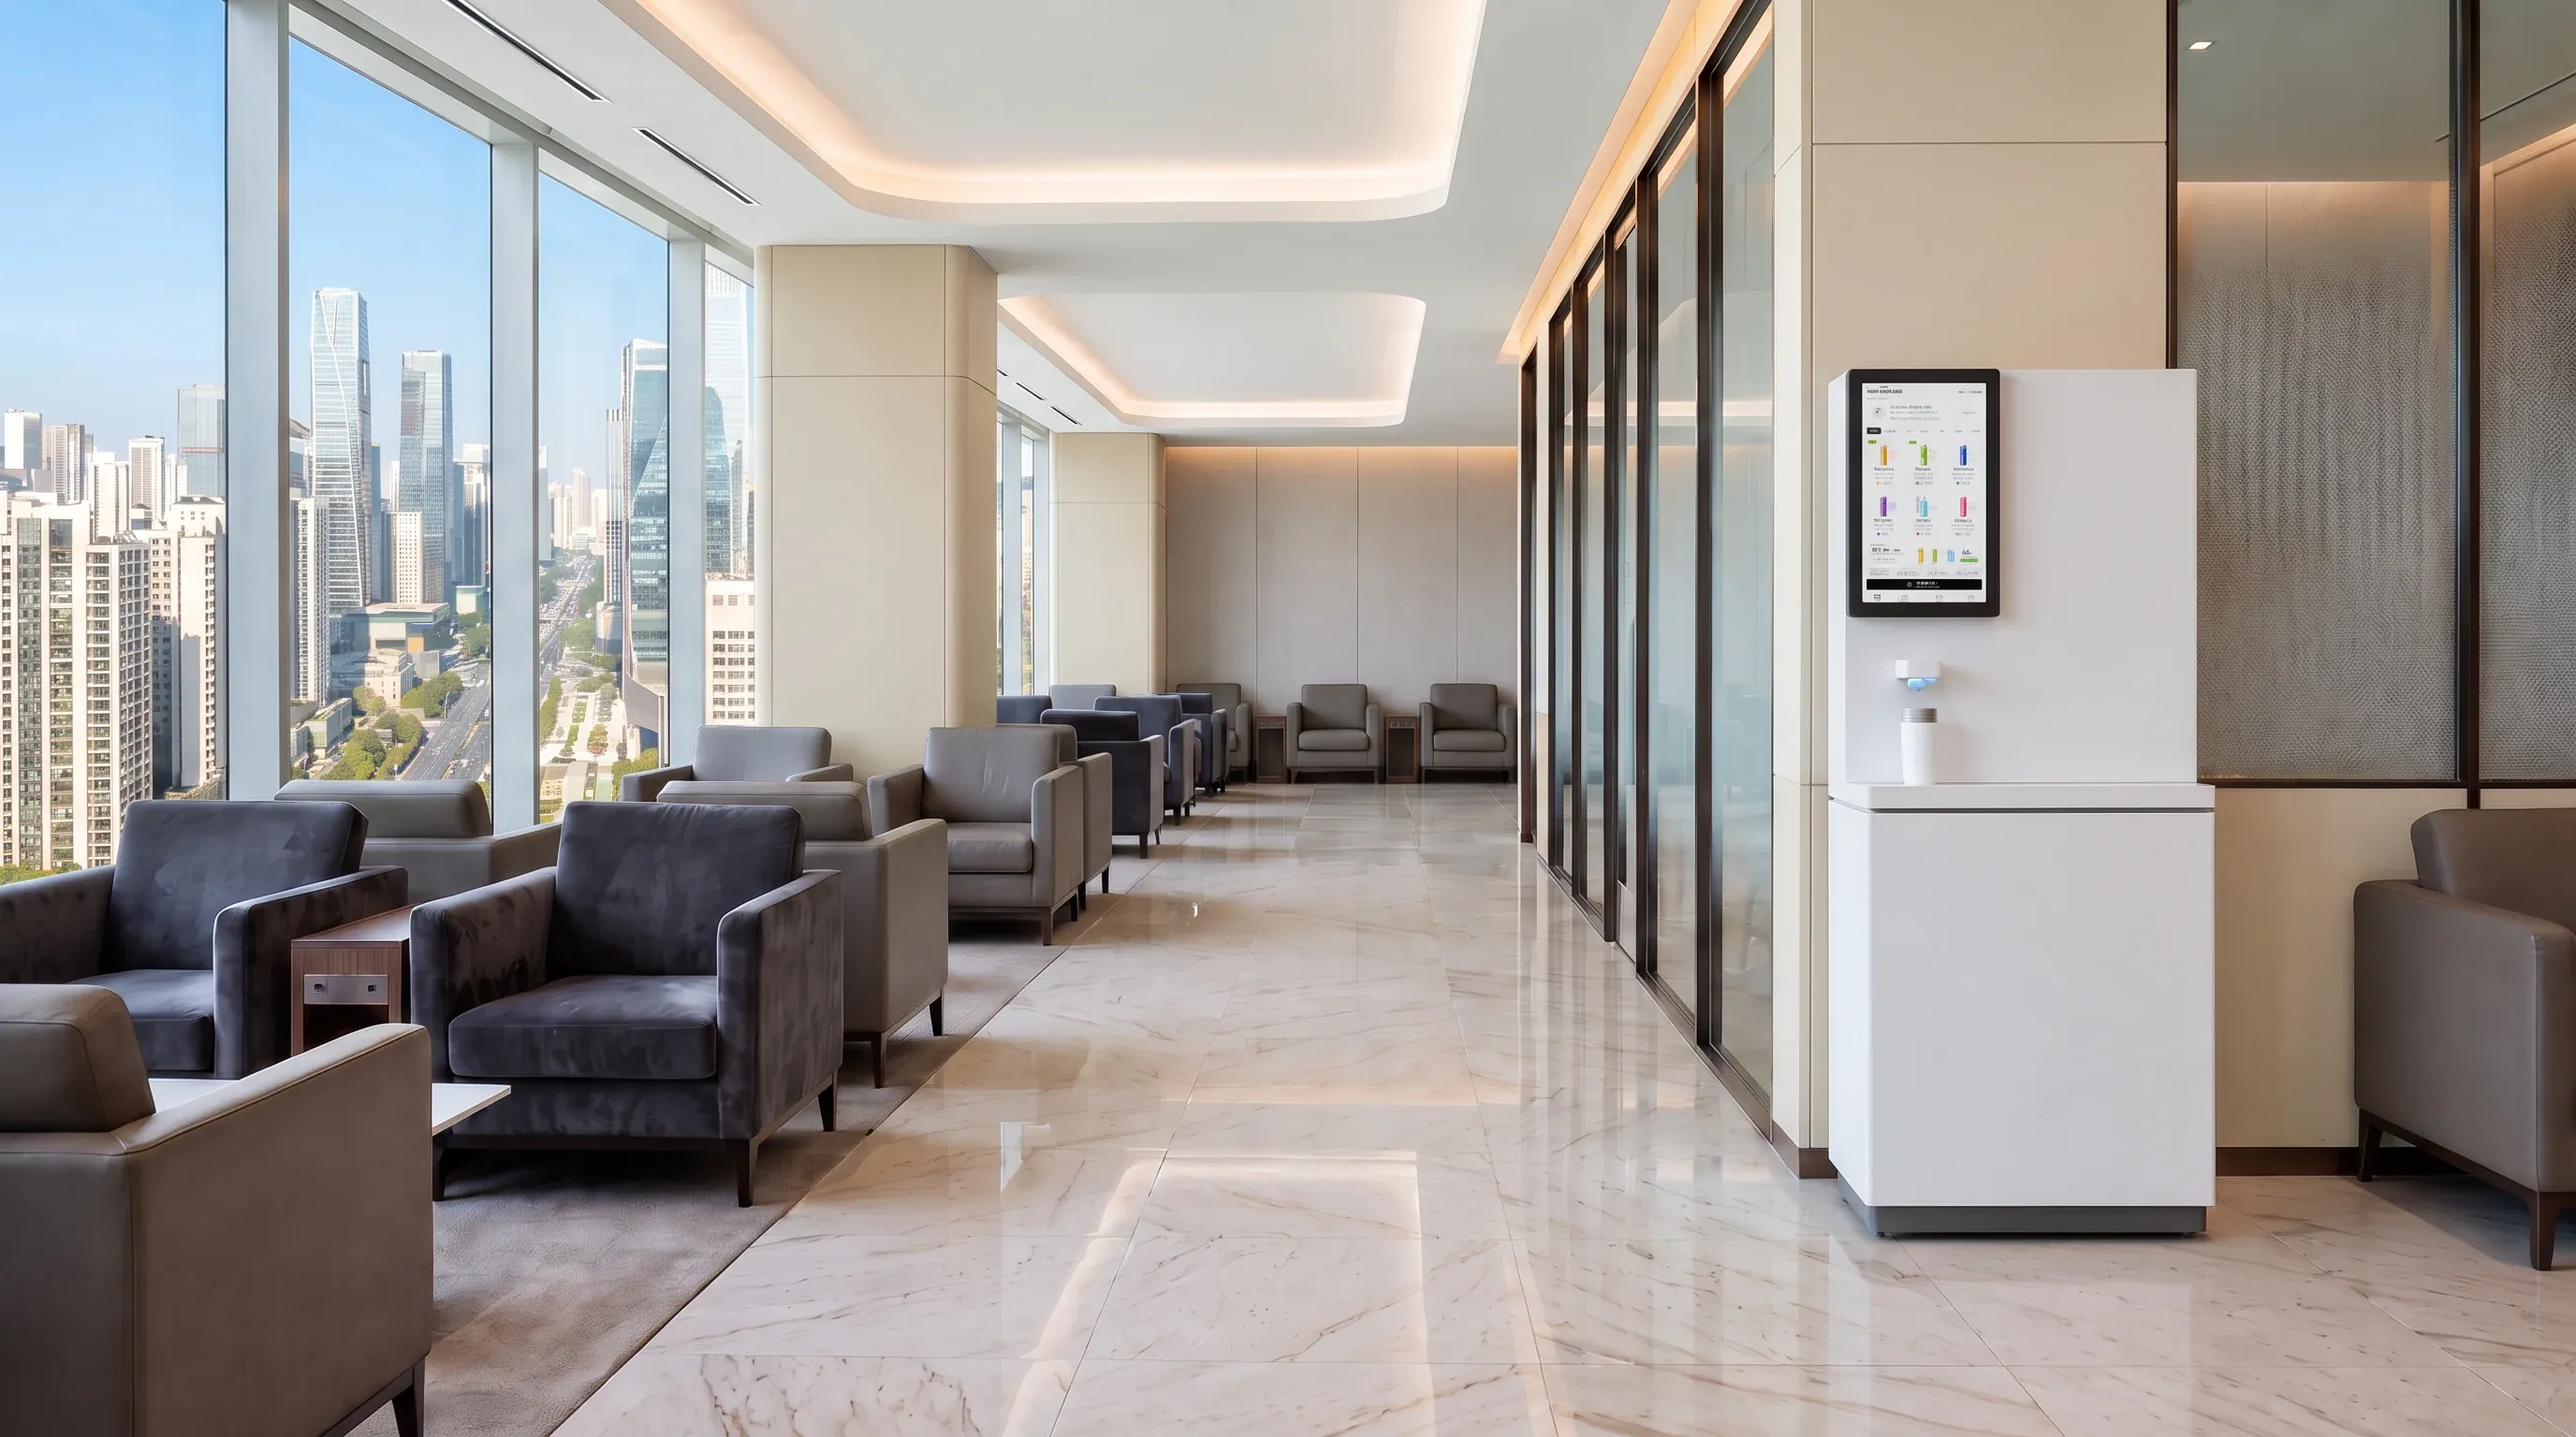
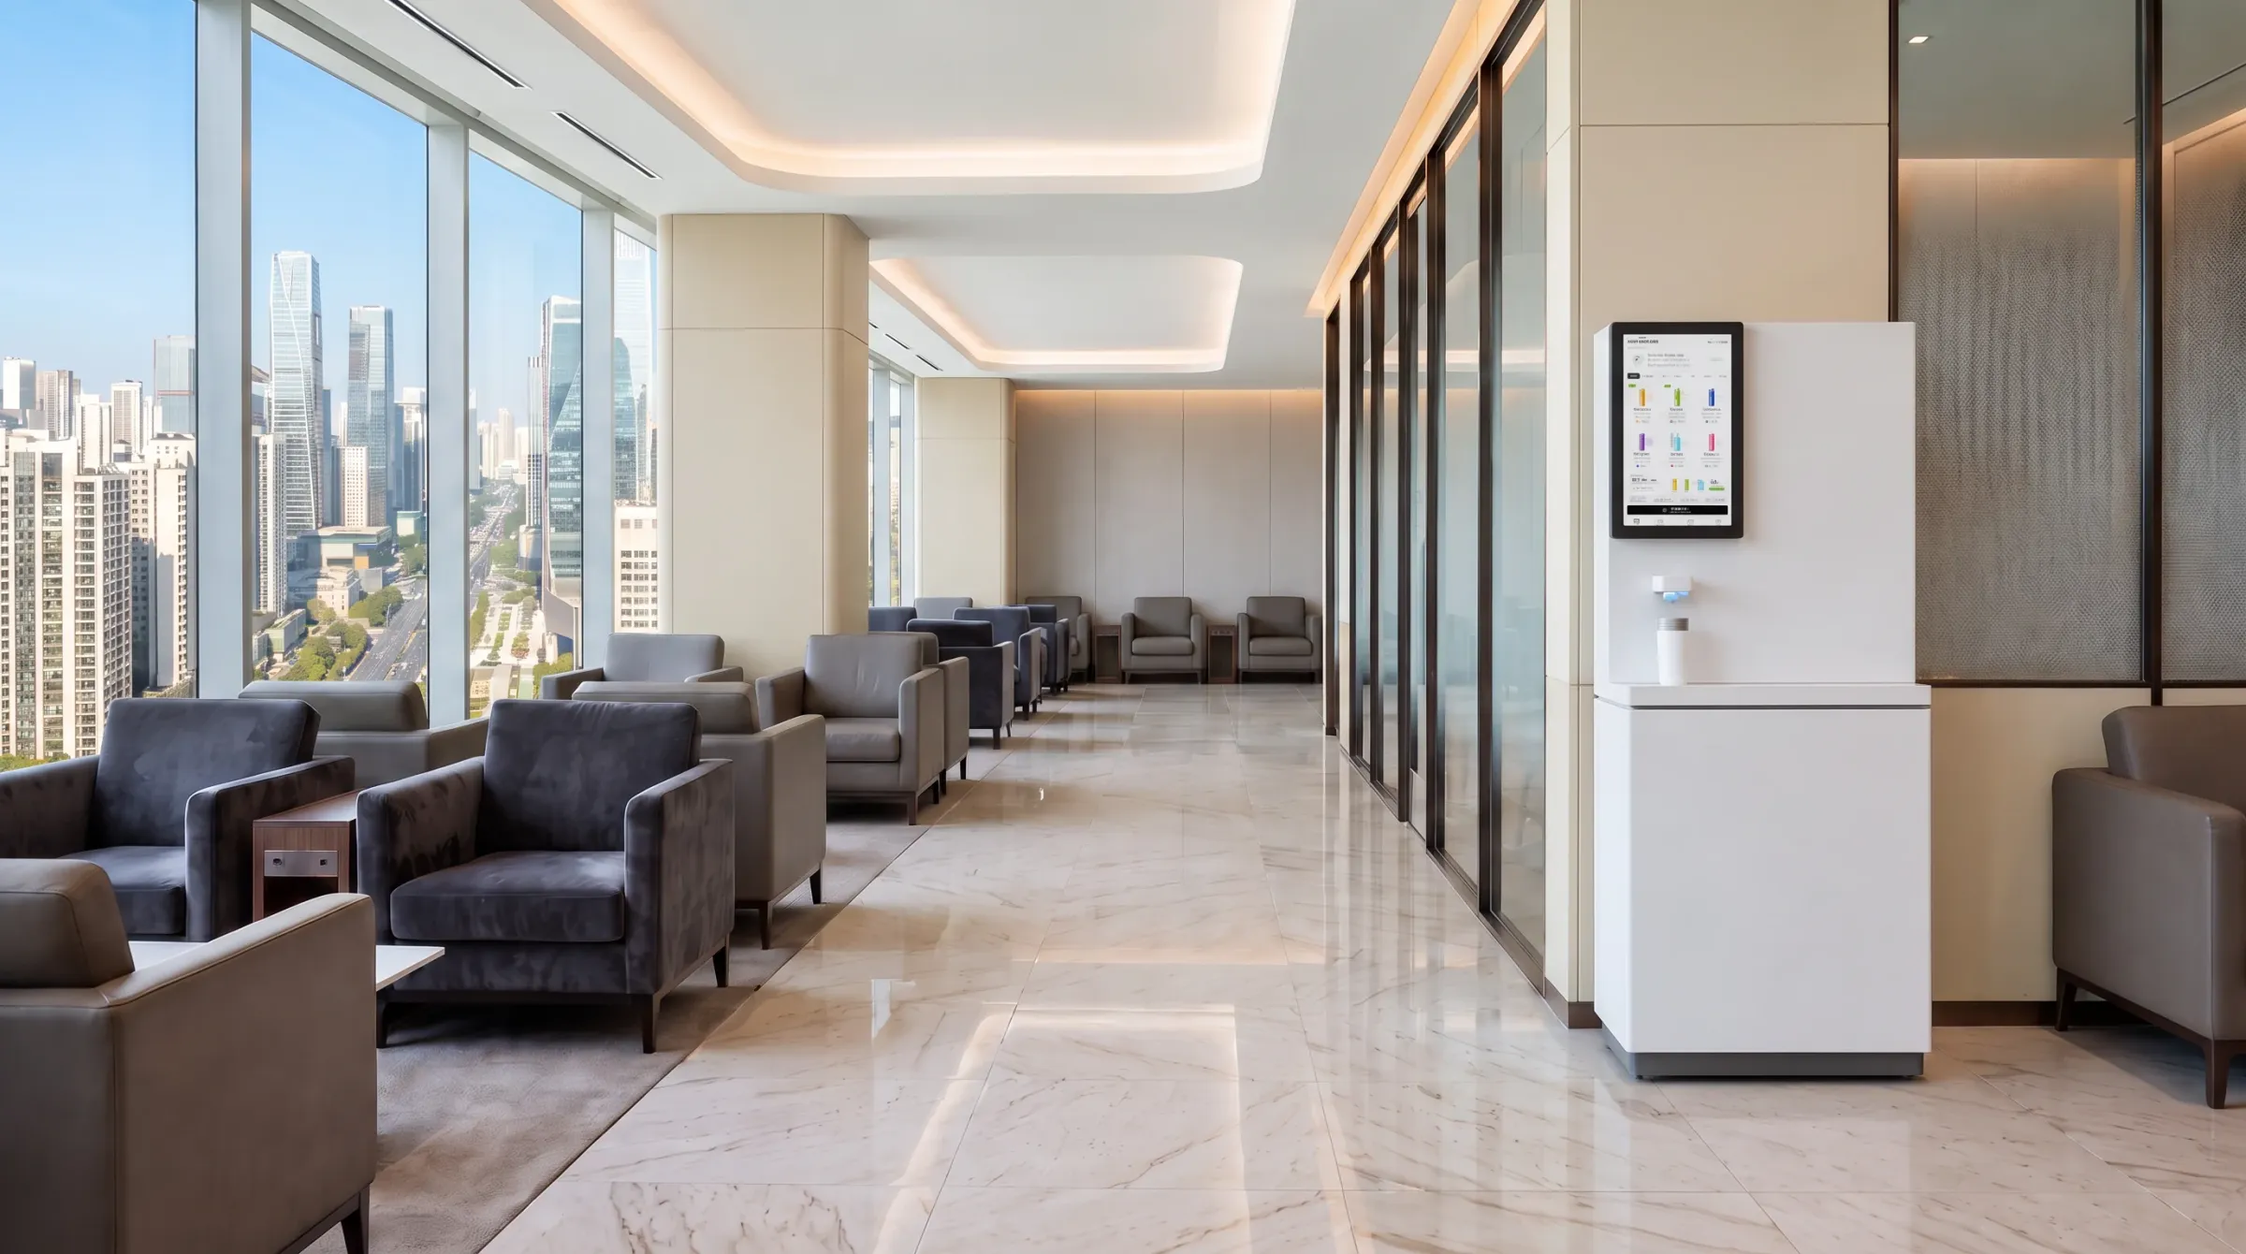
perf: 2400px space photos with async decode; final checks

diff --git a/src/content/spaces.ts b/src/content/spaces.ts
@@ -12,10 +12,10 @@ const space = (id: SpaceId, name: string, w: number, h: number, [x0, y0, x1, y1]
 })
 
 export const SPACES: Space[] = [
-  space('fitness', '피트니스', 3356, 1874, [676, 262, 854, 686]),
-  space('office', '오피스', 2752, 1536, [1058, 248, 1280, 790]),
-  space('apartment', '아파트 커뮤니티', 2752, 1536, [1135, 228, 1375, 768]),
-  space('spa', '스파 & 사우나', 3990, 2226, [1033, 208, 1265, 722]),
+  space('fitness', '피트니스', 2400, 1340, [676, 262, 854, 686]),
+  space('office', '오피스', 2400, 1340, [1058, 248, 1280, 790]),
+  space('apartment', '아파트 커뮤니티', 2400, 1340, [1135, 228, 1375, 768]),
+  space('spa', '스파 & 사우나', 2400, 1339, [1033, 208, 1265, 722]),
   // Shot at an angle; the photo's device is slimmer than the model at any yaw, so x0 is nudged +30px to centre the overlap.
-  space('lounge', '라운지', 3636, 2028, [958, 225, 1140, 730], -0.75),
+  space('lounge', '라운지', 2400, 1339, [958, 225, 1140, 730], -0.75),
 ]

diff --git a/src/sections/Spaces.tsx b/src/sections/Spaces.tsx
@@ -46,7 +46,7 @@ export function Spaces() {
           <div key={s.id} data-space-photo={i} className="absolute inset-0" style={{ opacity: i === 0 ? 1 : 0 }}>
             <picture>
               <source media="(max-width: 767px)" srcSet={s.srcMobile} />
-              <img src={s.src} alt={`${s.name}에 놓인 유웰나우`} loading={i === 0 ? 'eager' : 'lazy'} className="absolute inset-0 h-full w-full object-cover" />
+              <img src={s.src} alt={`${s.name}에 놓인 유웰나우`} loading={i === 0 ? 'eager' : 'lazy'} decoding="async" className="absolute inset-0 h-full w-full object-cover" />
             </picture>
             <div className="absolute inset-x-0 bottom-0 bg-gradient-to-t from-black/50 to-transparent pb-10 pt-24 text-white">
               <div className="mx-auto max-w-7xl px-5 md:px-8">
